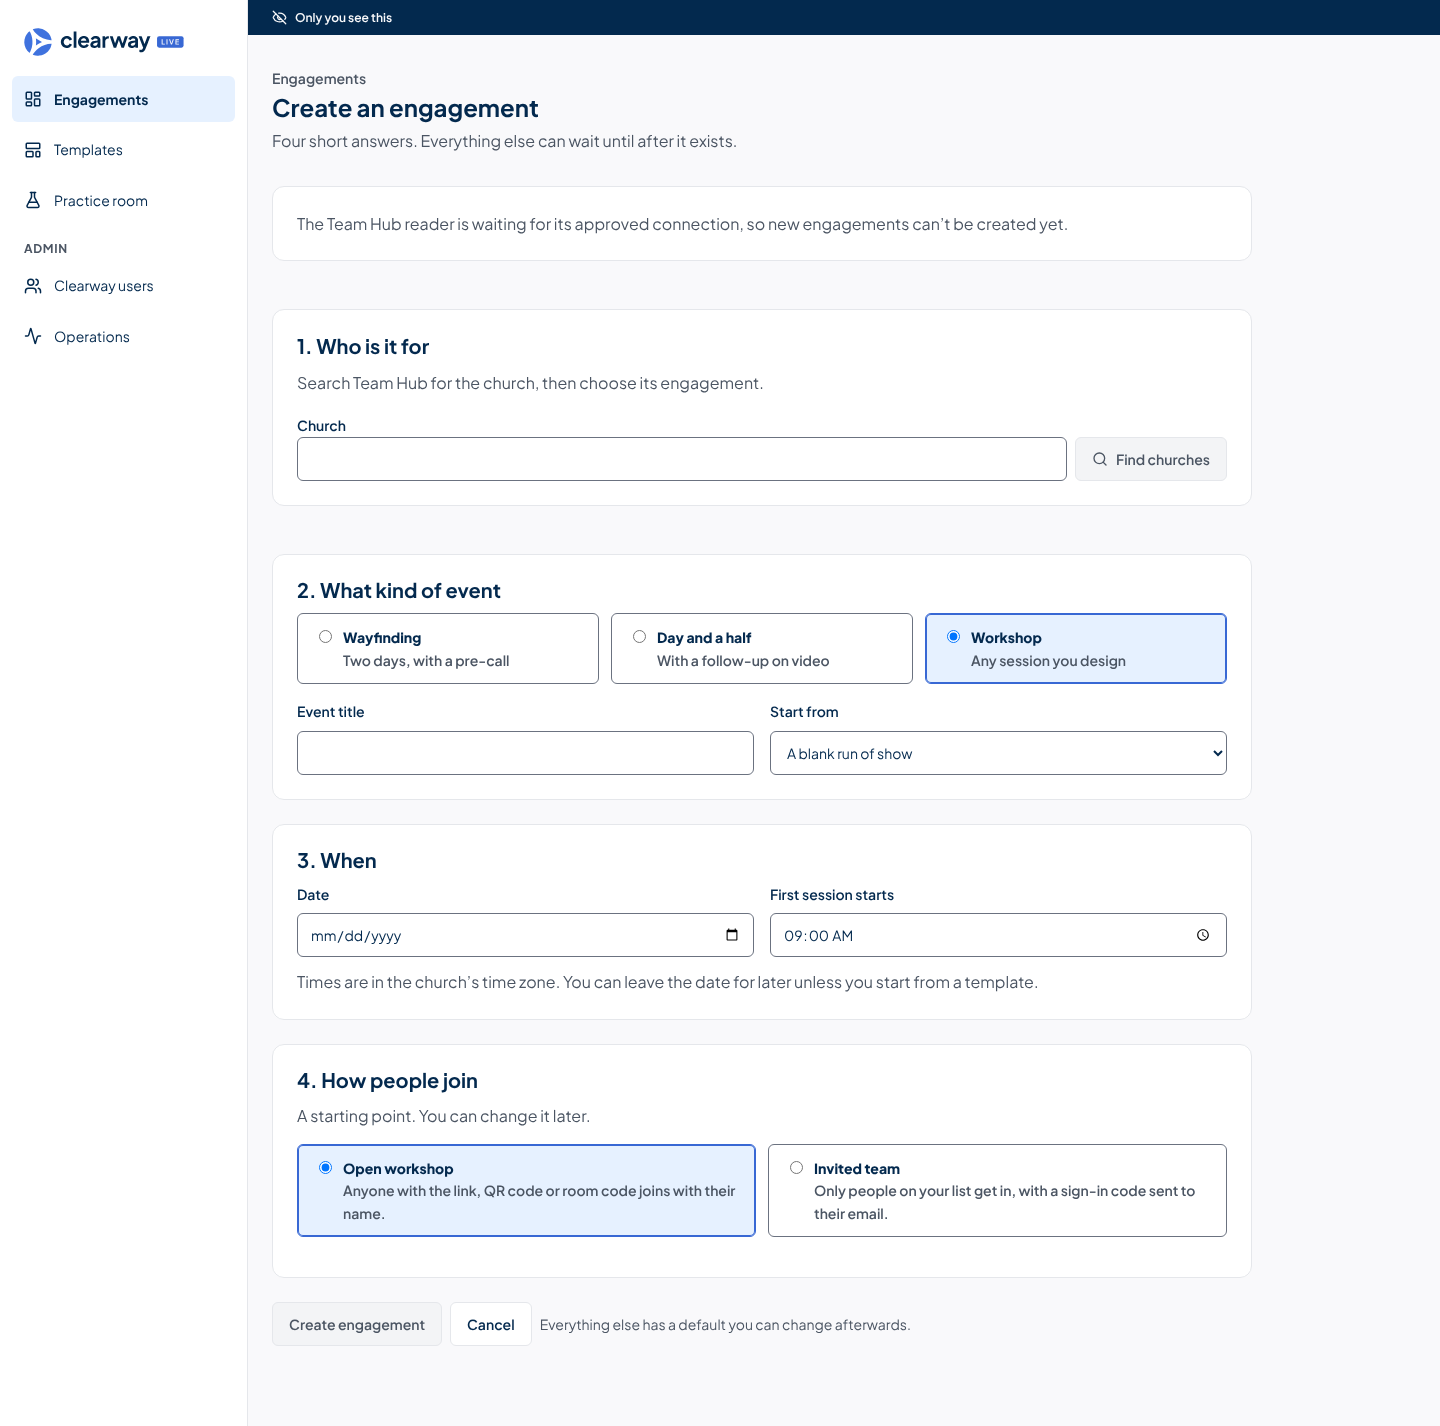
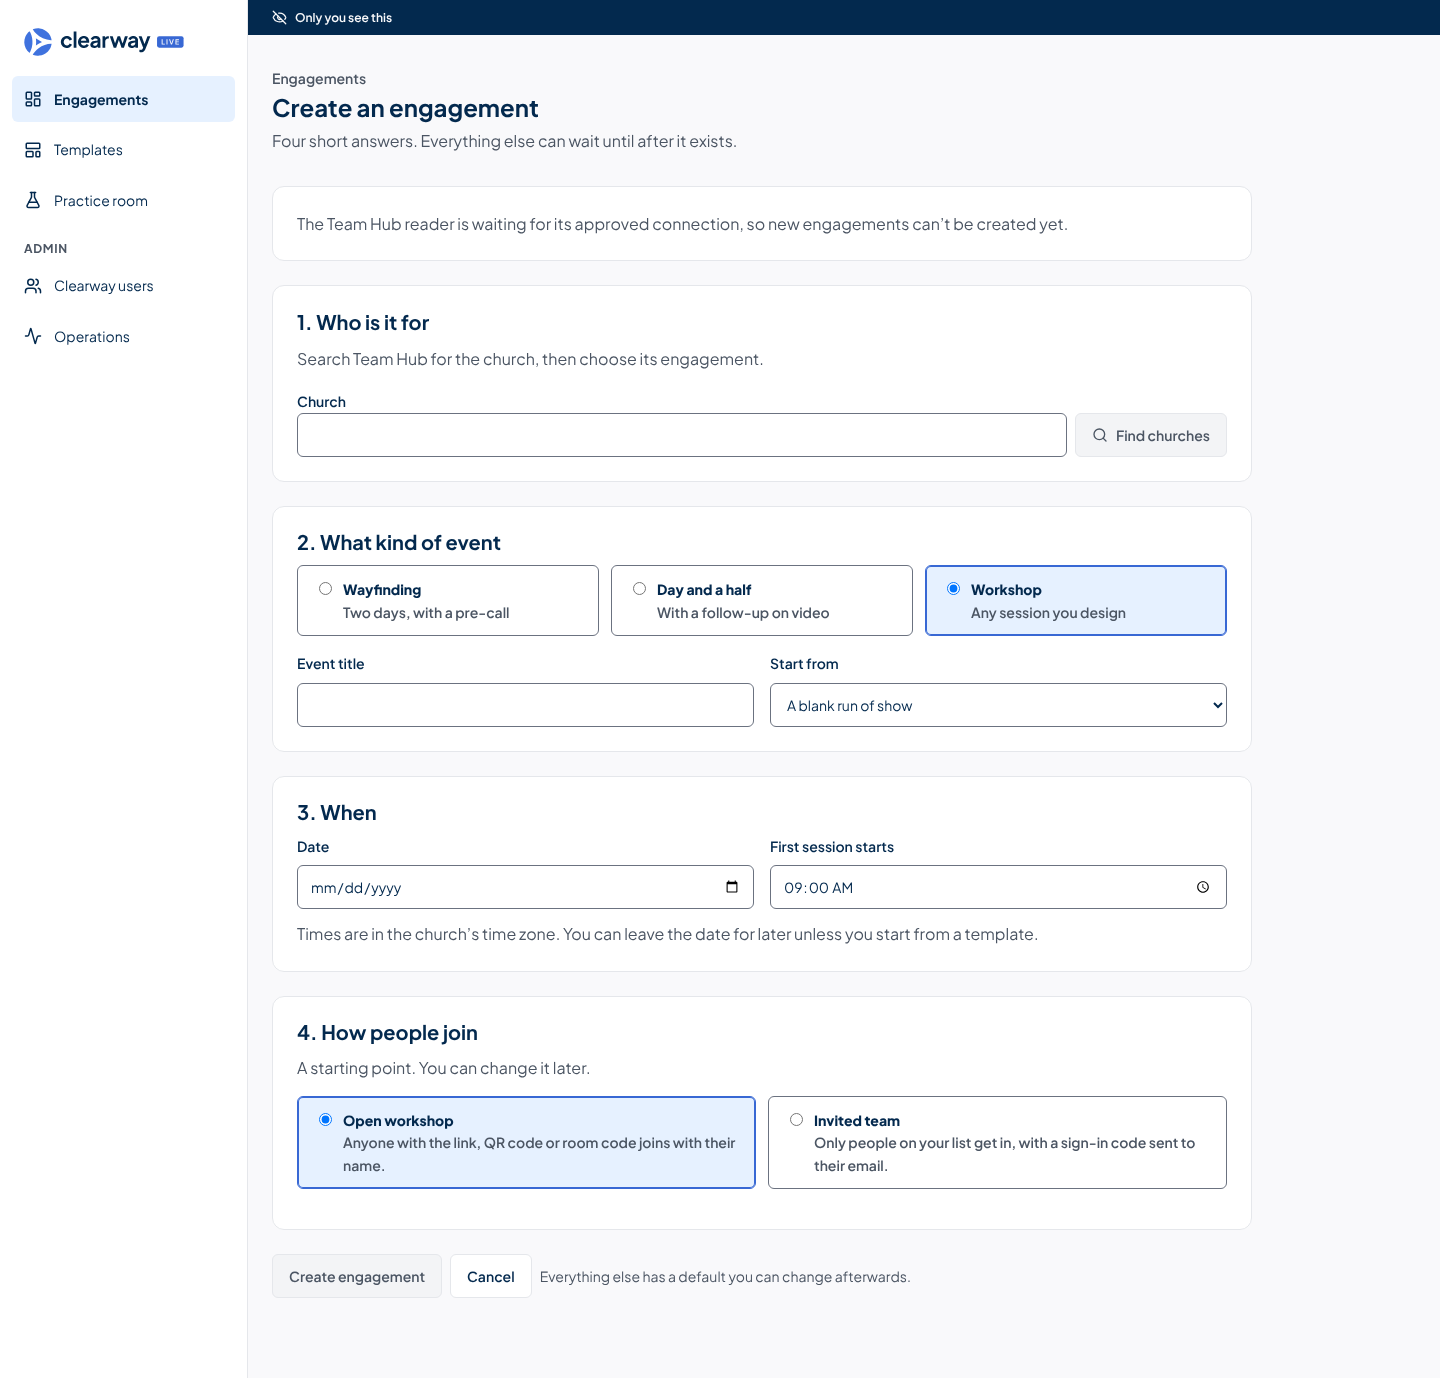
Save as template: click once and type replaces the prefilled name; even gaps in the create flow
Claude-Session: https://claude.ai/code/session_01JRnK1rf5QHkGnUCwk64BZN

diff --git a/components/run-of-show/save-template.tsx b/components/run-of-show/save-template.tsx
@@ -10,7 +10,9 @@ export function SaveTemplate({ engagement, name, count, sessions, onClose }: { e
   const block = Boolean(sessions), noun = block ? "block" : "template";
   const [value, setValue] = useState(name), [shared, setShared] = useState(true), [busy, setBusy] = useState(false), [message, setMessage] = useState(""), [saved, setSaved] = useState(false);
   const first = useRef<HTMLInputElement>(null);
-  useEffect(() => { first.current?.select(); }, []);
+  // The name starts as a suggestion. Opening focuses it with the text selected, and the first click selects it all again (a click would drop the selection), so click once and type replaces it. Later clicks place the caret.
+  const picked = useRef(false);
+  useEffect(() => { first.current?.focus(); first.current?.select(); }, []);
   useEffect(() => {
     const key = (e: KeyboardEvent) => { if (e.key === "Escape" && !busy) onClose(); };
     document.addEventListener("keydown", key); return () => document.removeEventListener("keydown", key);
@@ -30,7 +32,7 @@ export function SaveTemplate({ engagement, name, count, sessions, onClose }: { e
       <div className="rb-modal-head"><h2 id="save-template-title">{block ? "Save as a block" : "Save as template"}</h2><button type="button" className="show-button is-icon" aria-label="Close" disabled={busy} onClick={() => onClose()}><X size={20} aria-hidden="true" /></button></div>
       <div className="rb-modal-body">
         {saved ? (block ? <p role="status">{message} Add it to any run of show from Saved blocks.</p> : <p role="status">{message} Start an engagement from it in <Link className="text-link" href="/setup/templates">Templates</Link>.</p>) : <>
-          <label htmlFor="template-name">Name<input ref={first} id="template-name" required maxLength={120} value={value} onChange={e => setValue(e.target.value)} /></label>
+          <label htmlFor="template-name">Name<input ref={first} id="template-name" required maxLength={120} value={value} onMouseDown={e => { if (picked.current) return; picked.current = true; e.preventDefault(); e.currentTarget.focus(); e.currentTarget.select(); }} onChange={e => { picked.current = true; setValue(e.target.value); }} /></label>
           <div><p className="show-help"><b>What it copies</b></p><p className="show-muted">{count} {count === 1 ? "session" : "sessions"} with their prompts, interaction settings, timings and presenter notes. Answers, attendees and dates are never copied.</p></div>
           <label className="show-check" htmlFor="template-shared">Share with the Clearway team<input id="template-shared" type="checkbox" checked={shared} onChange={e => setShared(e.target.checked)} /></label>
           {message && <p className="show-message is-error" role="alert">{message}</p>}

diff --git a/tests/browser/templates.ts b/tests/browser/templates.ts
@@ -247,6 +247,24 @@ async function main() {
       const card = editor.locator(".tpl-card", { hasText: tplName });
       assert.match(await card.innerText(), /Saved by you/);
     });
+    await step("SET-08: the name field starts as the engagement title; click once and type, or just type, replaces it", async () => {
+      const title = (await sql.query("select title from public.engagements where id=$1", [room.id])).rows[0].title as string;
+      for (const mode of ["click", "type"] as const) {
+        const typed = `Typed ${mode} ${room.id.slice(0, 4)}`;
+        await editor.goto(`${app.origin}/setup/${room.id}/run-of-show`);
+        await editor.getByRole("button", { name: "Save as template" }).click();
+        const dialog = editor.getByRole("dialog", { name: "Save as template" }), field = dialog.locator("#template-name");
+        assert.equal(await field.inputValue(), title, "the name starts as the engagement title");
+        if (mode === "click") await field.click();
+        await editor.keyboard.type(typed);
+        assert.equal(await field.inputValue(), typed, `${mode}: typing replaced the title`);
+        await dialog.getByRole("button", { name: "Save template" }).click();
+        await dialog.getByText(`Saved ${typed} with`, { exact: false }).waitFor();
+        const names = (await sql.query("select name from private.templates where not deleted and name like $1", [`%${typed}%`])).rows.map(r => r.name as string);
+        assert.deepEqual(names, [typed]); assert.ok(!names[0].startsWith(title), "the saved name does not start with the engagement title");
+        await sql.query("update private.templates set deleted=true where name=$1", [typed]);
+      }
+    });
     await step("SET-08: Use a template from it shifts live and self-paced times alike; 6a's rehearsal, self-paced list and export work", async () => {
       const second = await engagement(sql, ["Ben"]);
       await sql.query("update public.engagements set title='Board night' where id=$1", [second.id]);

diff --git a/components/facilitator/admin.css b/components/facilitator/admin.css
@@ -123,6 +123,7 @@ label.create-option { flex-direction:row; }
 .app-shell .create-flow .create-step > legend { float:left; width:100%; margin:0 0 var(--space-3); padding:0; font-size:var(--cwl-fs-app-section-title); font-weight:var(--fw-bold); line-height:var(--lh-tight); }
 .app-shell .create-flow .create-step > legend + * { clear:both; }
 .app-shell .create-flow .admin-panel > p { margin-top:0; }
+.app-shell .create-flow > .admin-panel, .app-shell .create-flow .create-step { margin-bottom:0; }
 .app-shell .create-flow .create-step .form-grid + p { margin:var(--space-3) 0 0; }
 /* Batch A: the Engagements groups read as sentence-case headings, not shouted labels. */
 .app-shell .admin-page h2.admin-section-name { font-size:var(--cwl-fs-app-label); font-weight:var(--fw-semibold); letter-spacing:0; text-transform:none; }
